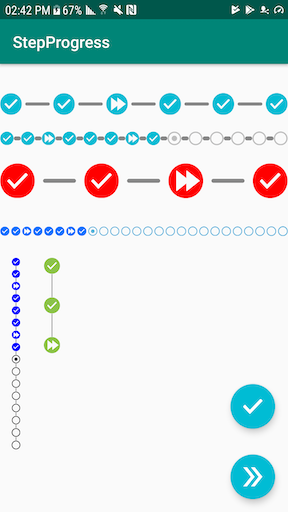
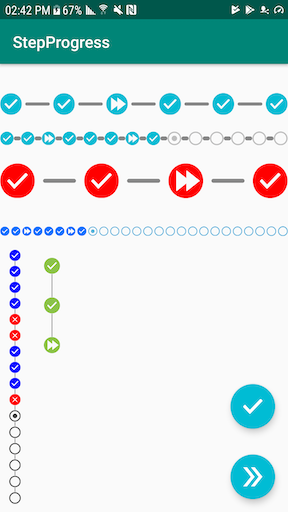
Version 1.00.01 separate skip indicator color

Changed region(s): [[0.0312, 0.4688, 0.0938, 1.0]]

diff --git a/stepprogress/src/main/java/guy4444/stepprogress/StepsProgress.java b/stepprogress/src/main/java/guy4444/stepprogress/StepsProgress.java
@@ -63,6 +63,7 @@ public class StepsProgress extends LinearLayout {
 
     private int activeStepColor;
     private int inActiveStepColor;
+    private int skipStepColor;
 
     /**
      * Function to handel view attributes
@@ -80,6 +81,7 @@ public class StepsProgress extends LinearLayout {
             linePadding = typedArray.getDimensionPixelSize(R.styleable.StepsProgress_line_padding, 20);
             activeStepColor = typedArray.getColor(R.styleable.StepsProgress_inActive_step_color, Color.parseColor("#0000FF"));
             inActiveStepColor = typedArray.getColor(R.styleable.StepsProgress_active_step_color, Color.DKGRAY);
+            skipStepColor = typedArray.getColor(R.styleable.StepsProgress_skip_step_color, activeStepColor);
         } catch (Exception e) {
             e.printStackTrace();
         }
@@ -154,7 +156,7 @@ public class StepsProgress extends LinearLayout {
                 ((ImageView)view).setImageResource(R.drawable.ic_marker_inactive);
                 break;
             case SKIPPED:
-                ((ImageView)view).setColorFilter(activeStepColor, android.graphics.PorterDuff.Mode.SRC_IN);
+                ((ImageView)view).setColorFilter(skipStepColor, android.graphics.PorterDuff.Mode.SRC_IN);
                 ((ImageView)view).setImageResource(R.drawable.ic_marker_skipped);
                 break;
             case COMPLETED:

diff --git a/README.md b/README.md
@@ -3,19 +3,16 @@
 [![](https://jitpack.io/v/guy-4444/StepProgress-Android.svg)](https://jitpack.io/#guy-4444/StepProgress-Android)
 [![API](https://img.shields.io/badge/API-15%2B-green.svg?style=flat)]()
 
-Widget that shows progress in steps.
-The library is very simple to operate and implement.
-There is an implementation for completion and also for skipping.
+Library to insert a widget that shows progress in steps.
 
 ![device-2018-06-06-144912](https://github.com/guy-4444/StepProgress-Android/blob/master/device-2019-02-04-144302.png?raw=true)
 
-## Setup
-Step 1. Add it in your root build.gradle at the end of repositories:
+Add it in your root build.gradle at the end of repositories:
 ```
 allprojects {
-    repositories {
-	maven { url 'https://jitpack.io' }
-    }
+	repositories {
+			maven { url 'https://jitpack.io' }
+	}
 }
 ```
 
@@ -23,31 +20,37 @@ Step 2. Add the dependency:
 
 ```
 dependencies {
-    implementation 'com.github.guy-4444:StepProgress-Android:1.00.00'
+	        implementation 'com.github.guy-4444:StepProgress-Android:Tag'
 }
 ```
 ## Usage
 
 ###### StepProgress Constructor:
 ```java
-    StepsProgress steps1;
-    steps1 = (StepsProgress) findViewById(R.id.steps1);
-    steps1.initSteps(6);  // number of steps
+        StepsProgress steps1;
+        steps1 = (StepsProgress) findViewById(R.id.steps1);
+        steps1.initSteps(6);  // number of steps
 ```
 
-###### StepProgress xml parameters (Optional):
-```xml
-    app:inActive_step_color="#0073FF"
-    app:active_step_color="#CD35A3D5"
-    app:line_width="5dp"
-    app:line_padding="10dp"
-    app:step_orientation="horizontal"
-```
-###### StepProgress Control ways:
+###### StepProgress xml parameters:
+
+**app:inActive_step_color="#0073FF"**
+**app:active_step_color="#CD35A3D5"**
+**app:skip_step_color="#FF0000"**
+**app:line_width="5dp"**
+**app:line_padding="10dp"**
+**app:step_orientation="horizontal"**
+
+###### StepView Control ways:
 ```java
-   steps1.stepCompleted();
-   steps1.stepSkipped();
+       steps1.stepCompleted();
+       steps1.stepSkipped();
 ```
+
+## What's new
+
+1. separate skip indicator color.
+
 
 ## License
 
